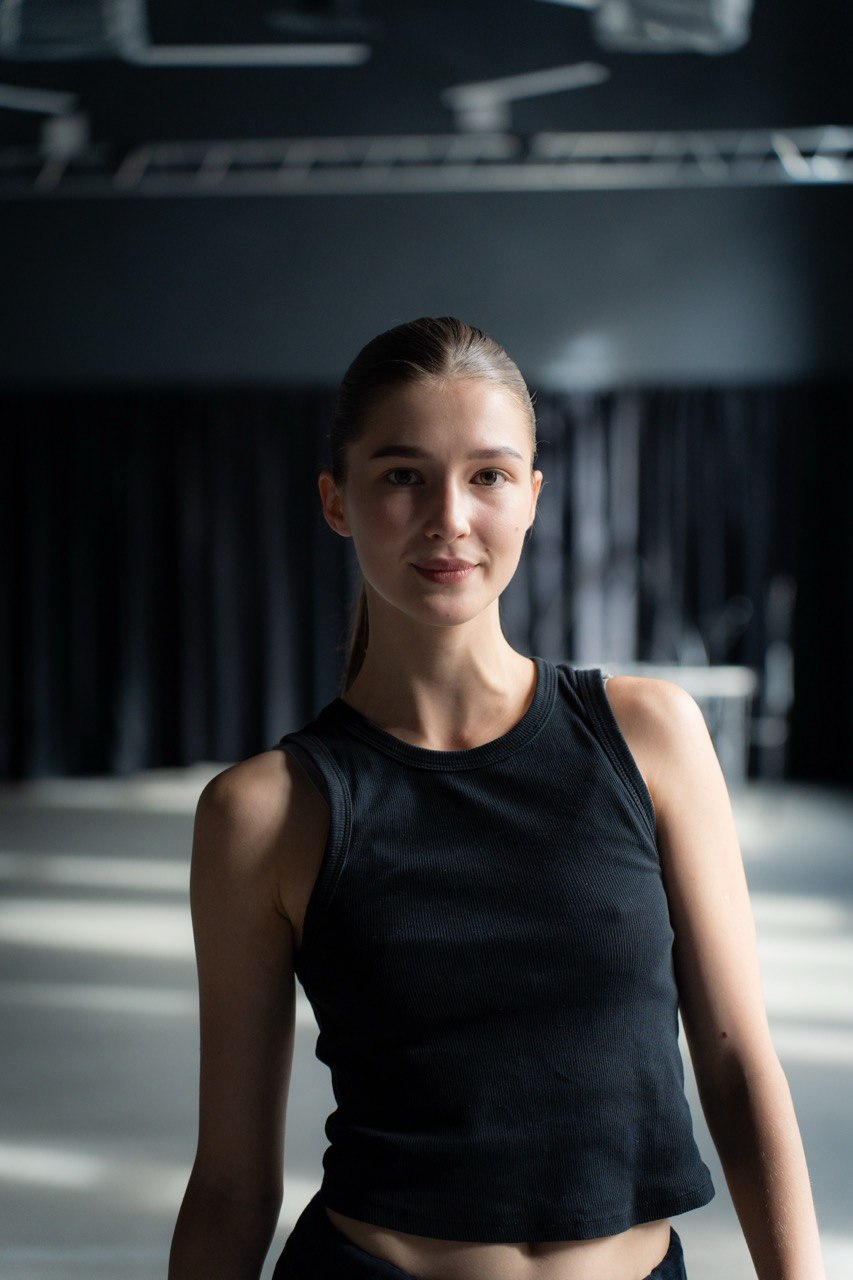
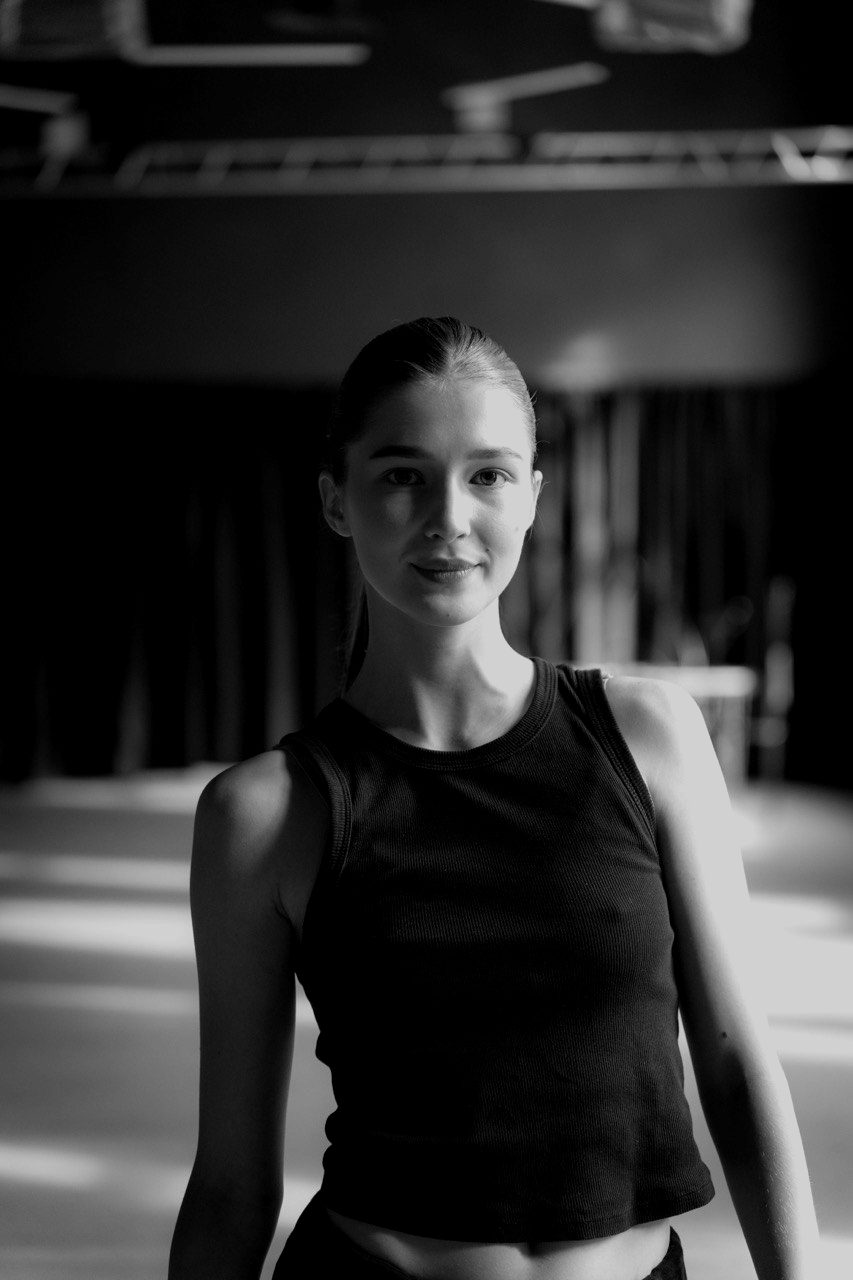
fix: monochrome Elizaveta portrait, simplify Суперпозиция block
- Convert the blue-tinted portrait to black and white matching the rest of the troupe
- Drop the five-phase breakdown and its styles

diff --git a/index.html b/index.html
@@ -21,8 +21,8 @@
   <meta name="twitter:image" content="https://sens-minsk.vercel.app/assets/og-sens.jpg">
   <link rel="icon" href="assets/sens-favicon.png" type="image/png">
   <link rel="preload" href="assets/fonts/beni-black.otf" as="font" type="font/otf" crossorigin>
-  <link rel="stylesheet" href="sens.css?v=20261012-8">
-  <link rel="stylesheet" href="home-page.css?v=20261012-8">
+  <link rel="stylesheet" href="sens.css?v=20261012-9">
+  <link rel="stylesheet" href="home-page.css?v=20261012-9">
   <script>document.documentElement.classList.add('js')</script>
   <script type="application/ld+json">
   {
@@ -194,21 +194,14 @@
 
       <article class="play play--super" aria-labelledby="play-super-title">
         <div class="play__body">
-          <p class="meta">Научный спектакль · хореограф-постановщик — Татьяна Лебедева</p>
+          <p class="meta">Хореограф-постановщик — Татьяна Лебедева</p>
           <h3 id="play-super-title" class="play__title">Супер&shy;позиция</h3>
           <p class="lead">Квантовая физика, рассказанная телом. И история о том, что связь меняет нас навсегда.</p>
-          <ul class="play__facts" aria-label="О спектакле"><li>≈ 1 час</li><li>12+</li><li>Пять частей</li></ul>
+          <ul class="play__facts" aria-label="О спектакле"><li>≈ 1 час</li><li>12+</li><li>Научный спектакль</li></ul>
           <div class="prose">
             <p>До встречи мы — облако возможностей: свободные, бесформенные, невидимые друг для друга. Связь даёт нам плотность и смысл, но забирает автономию: движение одного отзывается болью или радостью в другом. Даже расстояние её не разрушает.</p>
             <p>А когда нити всё же рвутся, они остаются лежать на сцене — как география нашей памяти. Мы снова одни, но тело уже помнит каждое касание.</p>
           </div>
-          <ol class="phases" aria-label="Пять частей спектакля">
-            <li><b>Суперпозиция</b><span>Хаос до наблюдения: артисты и клубки в непрерывном движении</span></li>
-            <li><b>Запутанность</b><span>Нити связывают пары — движение одного передаётся другому</span></li>
-            <li><b>Нелокальность</b><span>Пары расходятся, но связь не рвётся</span></li>
-            <li><b>Коллапс</b><span>Одно движение — и вторая группа мгновенно отвечает противоположным</span></li>
-            <li><b>Декогеренция</b><span>Связи распадаются, нити падают на пол</span></li>
-          </ol>
           <div class="play__actions">
             <button class="btn btn--signal" type="button" data-notify="Спектакль «Суперпозиция»">Сообщить о показе <span aria-hidden="true">→</span></button>
           </div>
@@ -322,7 +315,7 @@
     </form>
   </dialog>
 
-  <script type="module" src="home-page.js?v=20261012-8"></script>
-  <script src="sens.js?v=20261012-8" defer></script>
+  <script type="module" src="home-page.js?v=20261012-9"></script>
+  <script src="sens.js?v=20261012-9" defer></script>
 </body>
 </html>

diff --git a/home-page.css b/home-page.css
@@ -178,11 +178,6 @@
 .play__strip li { scroll-snap-align: start; }
 .play__strip img { width: 100%; height: 100%; aspect-ratio: 4 / 5; object-fit: cover; }
 
-.phases { display: grid; gap: 0; margin: 0.5rem 0; padding: 0; list-style: none; counter-reset: phase; }
-.phases li { counter-increment: phase; display: grid; grid-template-columns: 2.5rem 1fr; gap: 0.15rem 0.75rem; padding: 0.85rem 0; border-top: 1px solid var(--line); }
-.phases li::before { content: counter(phase, decimal-leading-zero); grid-row: span 2; font-size: var(--t-meta); font-weight: 800; color: var(--signal); padding-top: 0.2rem; }
-.phases b { font-size: 1.05rem; }
-.phases span { color: var(--muted); font-size: var(--t-small); }
 
 .play__visual { position: relative; overflow: hidden; background: #000; }
 .play__visual img { width: 100%; height: 100%; object-fit: cover; aspect-ratio: 2 / 3; }
